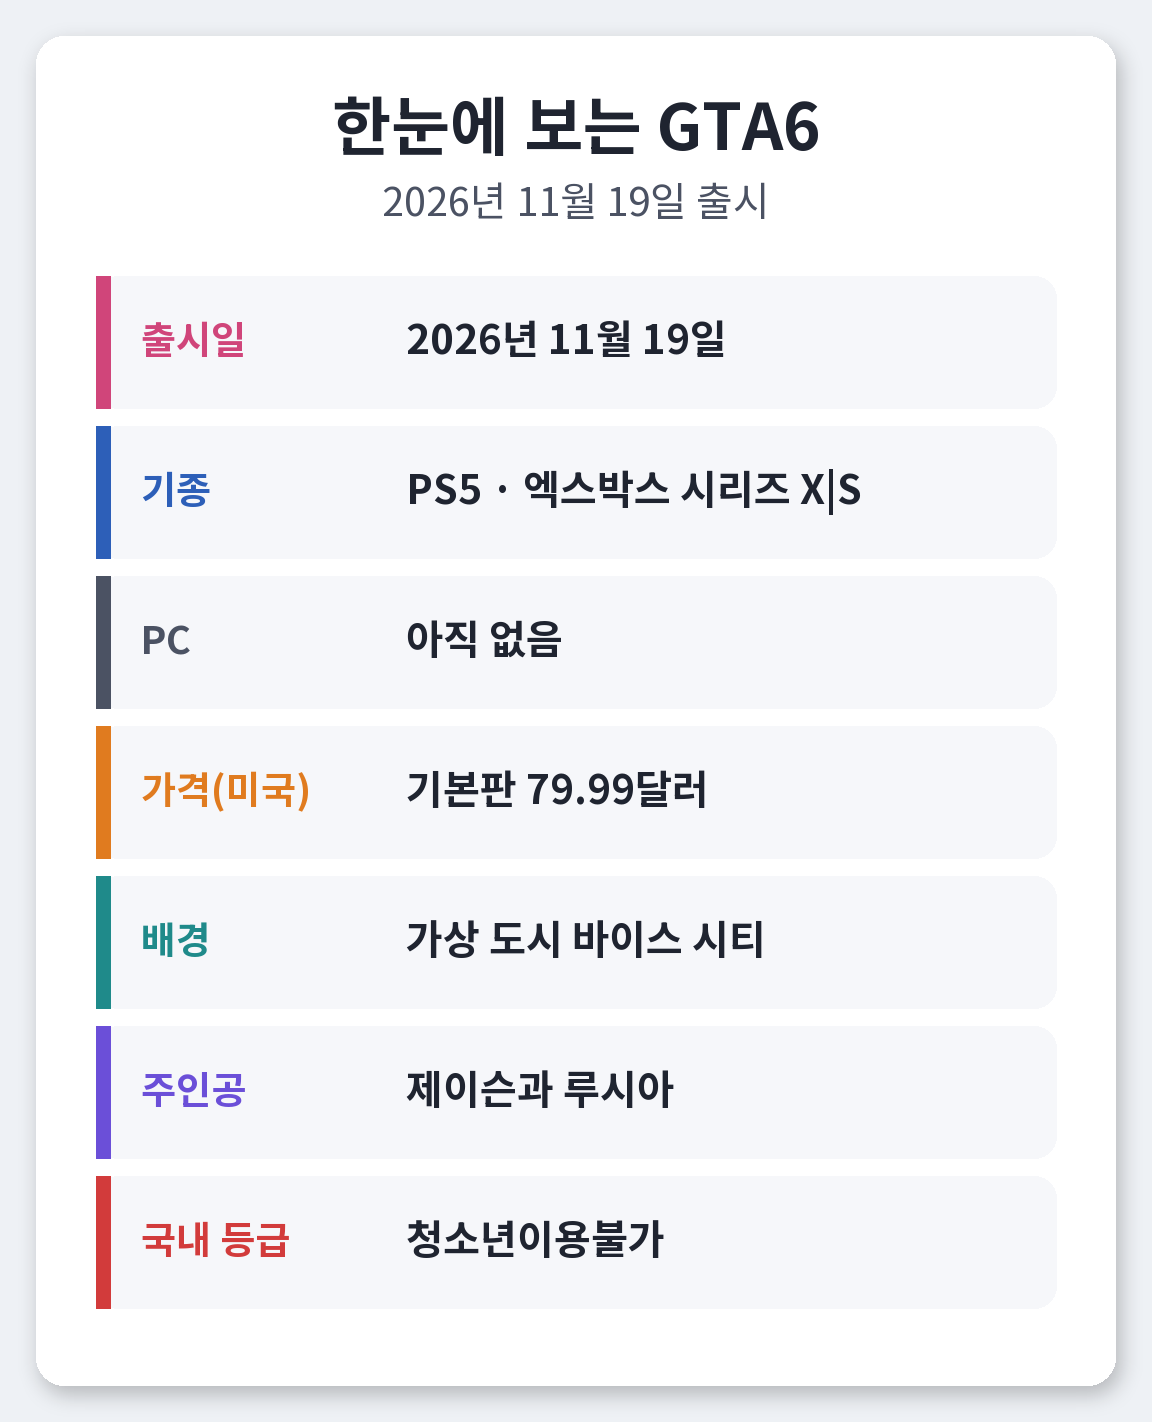
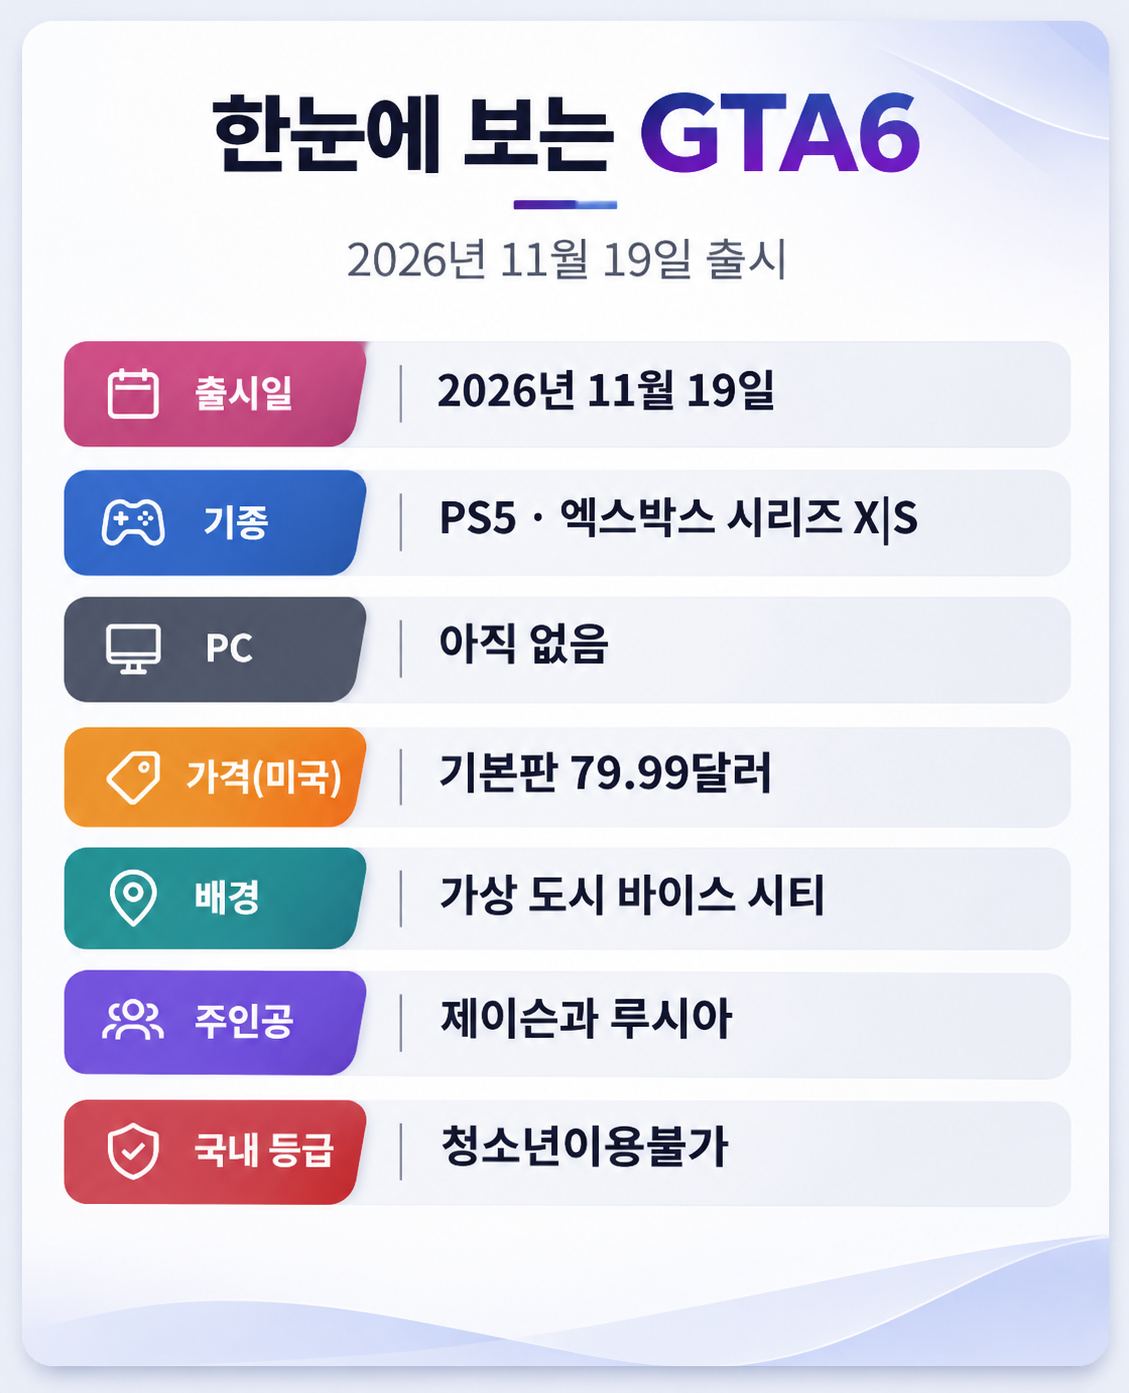
GTA6 글 02 이미지를 사용자 버전으로 교체, 이전 버전(_old) 보관

Changed region(s): [[0.0, 0.0, 0.992, 0.9878]]

diff --git a/AGENTS.md b/AGENTS.md
@@ -189,7 +189,7 @@
   - 근거: **락스타 공식 GTA VI 페이지**(11/19 출시, PS5·엑스박스 시리즈 X|S, 리오나이다·바이스 시티, 제이슨·루시아, PC 없음), 기사 원문 6건(센서타워 예약 1,588만 장·15억 4,000만 달러, 메타크리틱 99점, 가격 79.99/99.99달러, 연기한 게임들, 뉴주 콘솔 전망, 넷플릭스 플레이 영상, GCRB 심의 3:3 → 연기 두 번 → 8:1 10/16 청소년이용불가, PEGI 18·CERO Z). 출시 연기 이력·2023.12 첫 예고편은 일반 지식(발행 메모에 표시). 국내 원화 가격·용량은 확인 못 해 쓰지 않음. 폭력·선정 장면은 구체적으로 쓰지 않음. 국내 게임사 이름(엔씨·시프트업)은 본문에서 '한 대형 게임사'로.
   - 2026-11-19 외부 검수 반영(아홉 가지, 원문 대조): 개발비는 '공식 비공개·추정치 15억~30억 달러로 엇갈림·락스타가 소문 하나를 부인'으로, 연기 일정에 발표일(2025.5.2 → 2026.5.26, 2025.11.6 → 11.19), 예약 판매는 실물 패키지 미포함 추가(집계일은 국내 보도대로 '11월 17일 기준' 유지 — 검수가 제시한 '11월 15일까지'는 출처가 팬 사이트라 따르지 않고 사용자에게 알림), 메타크리틱은 내장 브라우저로 직접 확인(11/19, 기종별 99점·평론 150개, 이용자 점수 없음), 넷플릭스는 '27분 영상·나흘 3,110만 회·영어 영화 부문'으로, 다른 게임 연기는 GTA6만이 이유라고 단정하지 않음(CI게임즈 '완성도+연말 경쟁 회피'), 등급분류 거부는 '국내 정식 유통 등급을 받지 못함', 중국은 GTA6 출시 일정 미공개로 좁힘, 설치 용량 최대 212GB. 이미지 03 문구도 고침. **게임·신제품 글 기준**: 개발비처럼 회사가 공개하지 않은 숫자는 한 보도 숫자를 단정하지 말고 '비공개·추정치 범위'로 쓴다. 평점 사이트 점수는 기종·확인 날짜·평론가/이용자 구분을 붙인다. 다른 회사의 결정(출시 연기)을 한 원인으로 단정하지 않는다. **메타크리틱은 내장 브라우저로 열린다.**
   - 01 타이틀은 아랫줄 글자가 가로 약 83%로 70%를 넘어 다시 요청했다(측정값을 요청서에 적음). 05 실사는 게임기·컨트롤러가 실제 PS5 제품 모양과 거의 같아 사용자 결정으로 다시 요청했다(본체는 빼고 특정 제품처럼 보이지 않는 일반 컨트롤러로). 처음 받은 두 파일은 `자료실/제작-이미지`에 남겨 두었다가 새 것을 받으면 지운다. **실사 요청에 기기(게임기·휴대폰·노트북)가 나오면 "특정 회사 제품 모양으로 보이지 않게"를 처음부터 적는다.** 다시 받은 01(같은 디자인, 아랫줄 가로 약 68%·좌우 15.9%로 70% 안, 글자 정확)과 05(게임기 본체 없음, 특정 제품으로 보이지 않는 검은 일반 컨트롤러, 뒷모습, TV 화면 흐림)를 확인해 1080px·1620×1080으로 맞춰 적용하고, 처음 받은 두 장은 지웠다. 이미지 7장 완료, 대기 중인 요청 없음. 남은 일은 사용자의 네이버 발행뿐이다.
-  - 이미지 7장: AI 02 한눈에(카드)·03 13년 연표(세로, 왼쪽 띠)·04 숫자(얇은 선)·06 등급 심의(겹선)·07 사기 전에(1:1, 꺾쇠)는 `images/`에 있다. ChatGPT 요청: 01 타이틀('GTA6 / 13년 만의 출시', 흐린 노을 바닷가 도시 배경, 실제 게임 로고·캐릭터 모방 금지)·05 거실 콘솔 뒷모습 실사(3:2). '함께 보면 좋은 글' 배너는 맞는 관련 글이 없어 넣지 않았다.
+  - 이미지 7장: AI 02 한눈에(카드)·03 13년 연표(세로, 왼쪽 띠)·04 숫자(얇은 선)·06 등급 심의(겹선)·07 사기 전에(1:1, 꺾쇠)는 `images/`에 있다. ChatGPT 요청: 01 타이틀('GTA6 / 13년 만의 출시', 흐린 노을 바닷가 도시 배경, 실제 게임 로고·캐릭터 모방 금지)·05 거실 콘솔 뒷모습 실사(3:2). '함께 보면 좋은 글' 배너는 맞는 관련 글이 없어 넣지 않았다. 같은 날 사용자가 02 한눈에 보기를 새 디자인(아이콘 색 띠)으로 바꾸고 AI 버전을 `02-한눈에-보는-GTA6_old.png`로 남겼다(글자는 본문과 일치 확인). 사용자 버전이 최종본이므로 다시 만들어 덮어쓰지 않는다. **사용자가 남기는 이전 버전 파일 이름은 `_org` 외에 `_old`일 수도 있다.**
 - 2026-11-19: `문서/네이버-코딩가이드/20261119_before2023-검색/index.html` 작성("구글 검색에 before:2023을 붙이는 이유, AI 글 피하는 법", 카테고리 컴퓨터·IT, 검수·모바일 반영 후 공백 포함 4,646자). 11/18~19 네이트 관심뉴스 기준 추천 5개 중 2번(11/18 IT 관심뉴스 'AI 가짜 정보에 지쳤다…2022년 이전 자료만 찾는 사람들').
   - 근거: 11/18 기사 원문(before:2023 요령, 확장 프로그램 Slop Evader·Pre-AI Search, Low-background Steel 사이트와 저방사능 강철 비유), **구글 검색 고객센터 원문**(before:/after:는 '마지막으로 업데이트된 문서' 기준, 날짜 형식 예시, 연산자와 검색어 사이 공백 금지, '웹' 필터는 텍스트 기반 링크), **내장 브라우저로 실제 검색한 결과**(2026.11.19 구글 [라즈베리파이 고정 IP 설정 before:2023] → 위쪽 세 건 2021.12.16·2021.5.11·2022.2.10, AI 개요는 그대로 표시 / after:2025-01-01 → 첫 결과 2025.7.18 / 유튜브 before:2023 → 4~7년 전 영상). **구글·유튜브 검색 결과는 내장 브라우저로 열어 확인할 수 있다(네이버 검색은 막혀 있음).**
   - 확인 못 한 것(발행 메모에 표시): 네이버 검색 '옵션 → 기간 → 직접입력'(네이버가 열리지 않아 기사·일반 지식 기준, 본문에 '화면이 바뀔 수 있다'), 유튜브 before:의 공식 안내(실제 검색으로만 확인), 라즈베리파이 OS Bookworm의 NetworkManager 전환(일반 지식 + 검색 결과 요약, 공식 문서 대조 안 함). 확장 프로그램은 소개만 하고 설치를 권하지 않았다.
